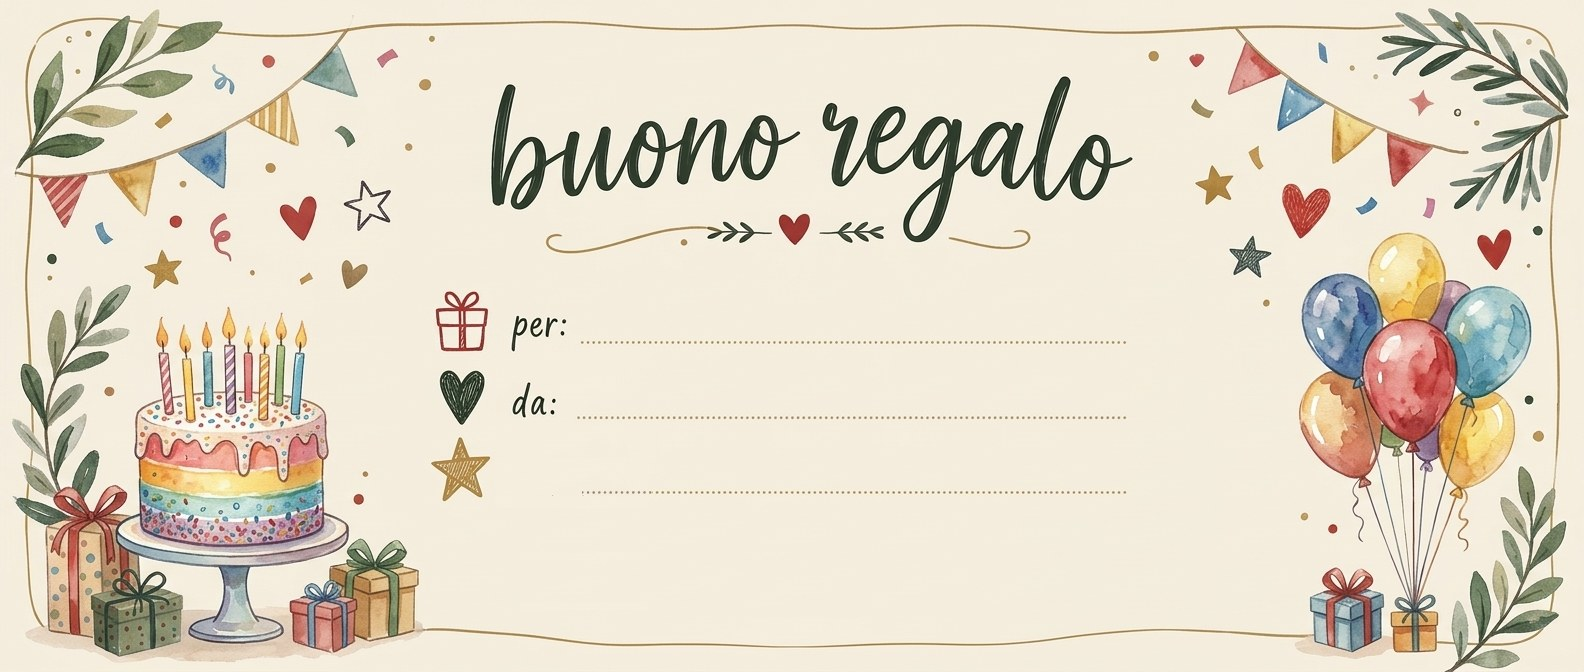
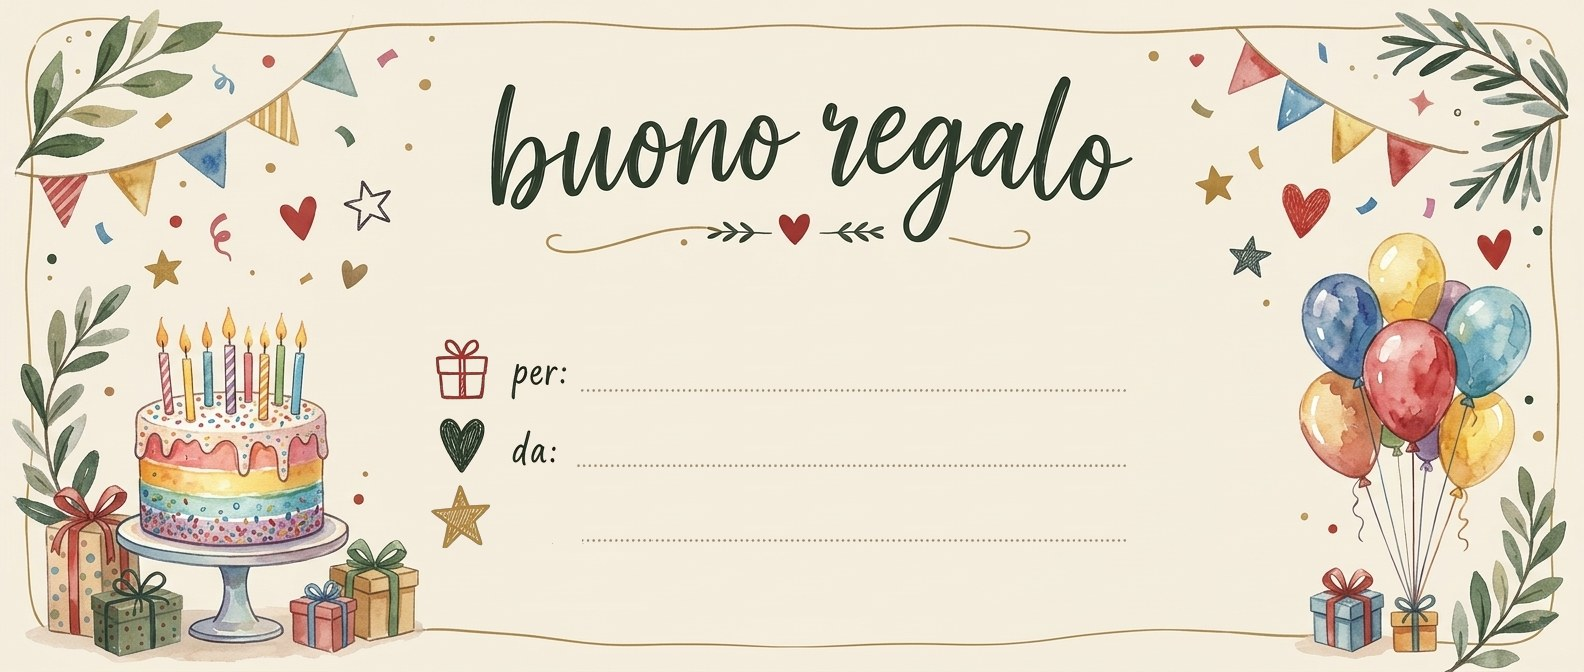
Buoni compleanno e occasioni: riga del trattamento più grande e leggibile
Claude-Session: https://claude.ai/code/session_011RsyGBdXq3zptGDLQErzia

Changed region(s): [[0.2784, 0.4375, 0.3712, 0.8125]]

diff --git a/index.html b/index.html
@@ -922,11 +922,13 @@ const ART = {
              what:{cx:1022,y:425,max:930,size:100}, per:{x:720,y:522,max:770,size:94}, da:{x:720,y:641,max:770,size:94},
              ded:{x:600,y:760,max:890,size:90}, code:{x:1495,y:806,size:24}, contact:{cx:1015,y:850,size:26}},
   compleanno:{src:"img/buono-compleanno.jpg", w:1584, h:672,
-             what:{cx:818,y:290,max:520,size:44}, per:{x:590,y:333,max:530,size:60}, da:{x:590,y:408,max:530,size:60},
-             ded:{x:515,y:483,max:605,size:54}, code:{x:1125,y:520,size:18}, contact:{cx:818,y:592,size:23}},
+             what:{cx:812,y:332,max:610,size:62}, line:{x0:500,x1:1125,y:342,gap:5.5,r:1.3,color:"#9C8E74"},
+             per:{x:590,y:381,max:530,size:60}, da:{x:590,y:456,max:530,size:60},
+             ded:{x:515,y:531,max:605,size:54}, code:{x:1125,y:567,size:17}, contact:{cx:818,y:609,size:22}},
   occasioni:{src:"img/buono-occasioni.jpg", w:1024, h:474,
-             what:{cx:550,y:197,max:340,size:27}, per:{x:380,y:231,max:340,size:38}, da:{x:380,y:284,max:340,size:38},
-             ded:{x:330,y:336,max:395,size:35}, code:{x:727,y:360,size:12}, contact:{cx:540,y:410,size:15}, occ:{cx:512,y:50,size:22}}
+             what:{cx:528,y:229,max:390,size:40}, line:{x0:330,x1:727,y:237,gap:4,r:0.85,color:"#A39276"},
+             per:{x:380,y:263,max:340,size:38}, da:{x:380,y:316,max:340,size:38},
+             ded:{x:330,y:368,max:395,size:35}, code:{x:727,y:391,size:11}, contact:{cx:520,y:426,size:13.5}, occ:{cx:512,y:50,size:22}}
 };
 const artFor = o => o==="natale" ? ART.natale : o==="compleanno" ? ART.compleanno : ART.occasioni;
 const BG = {}; Object.keys(ART).forEach(k=>{ const im=new Image(); im.onload=()=>{ try{ drawVoucher($("#voucher")); }catch(e){} }; im.src=ART[k].src; BG[k]=im; });
@@ -941,9 +943,10 @@ function drawVoucher(c){
   const put=(t,p,weight,align)=>{ if(!t) return; let z=p.size*s; x.textAlign=align||"left";
     do { x.font=`${weight} ${z}px Caveat, cursive`; } while(p.max && x.measureText(t).width>p.max*s && (z-=2)>p.size*s*0.5);
     x.fillText(t,(p.cx!=null?p.cx:p.x)*s,p.y*s); };
+  if(A.line){ x.fillStyle=A.line.color; for(let px=A.line.x0; px<=A.line.x1; px+=A.line.gap){ x.beginPath(); x.arc(px*s, A.line.y*s, A.line.r*s, 0, Math.PI*2); x.fill(); } }
   x.fillStyle="#2F4A3A"; x.textBaseline="alphabetic";
   const to=$("#g-to").value.trim(), from=$("#g-from").value.trim(), msg=$("#g-msg").value.trim();
-  put(giftWhat(), A.what, 700, "center");
+  put(giftWhat().split(" – ")[0], A.what, 700, "center");   // sul buono basta il nome principale (es. "Rituale Balinese")
   put(to, A.per, 700); put(from, A.da, 700);
   if(msg) put("“"+msg+"”", A.ded, 500);
   if(A.occ){ x.fillStyle=OCC_COLOR[occ]||"#4F7457"; put(OCC[occ].title, A.occ, 700, "center"); }
